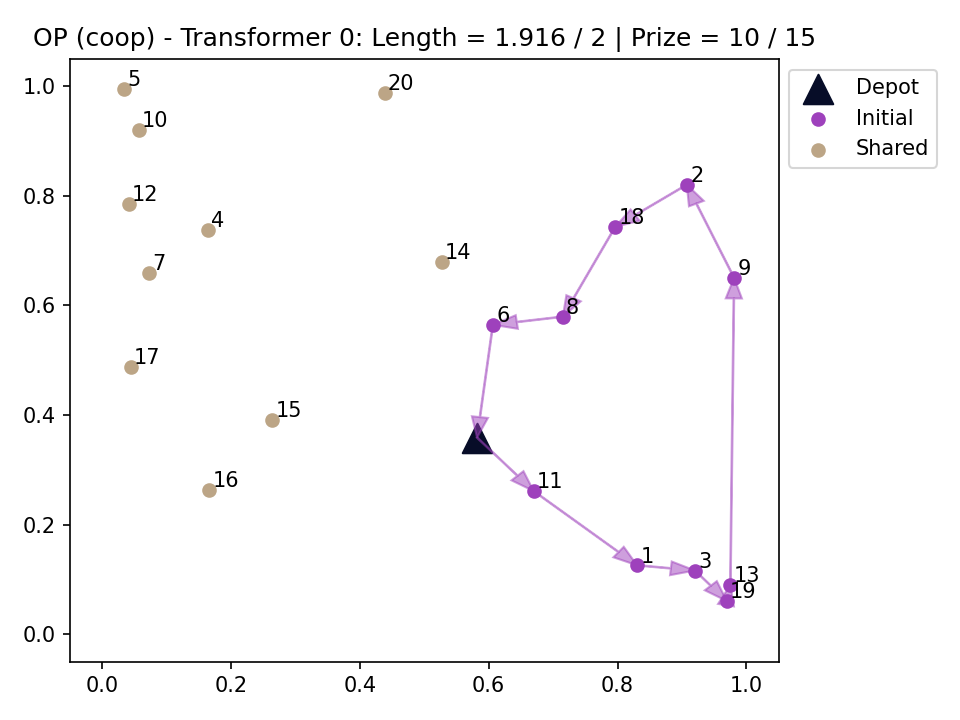
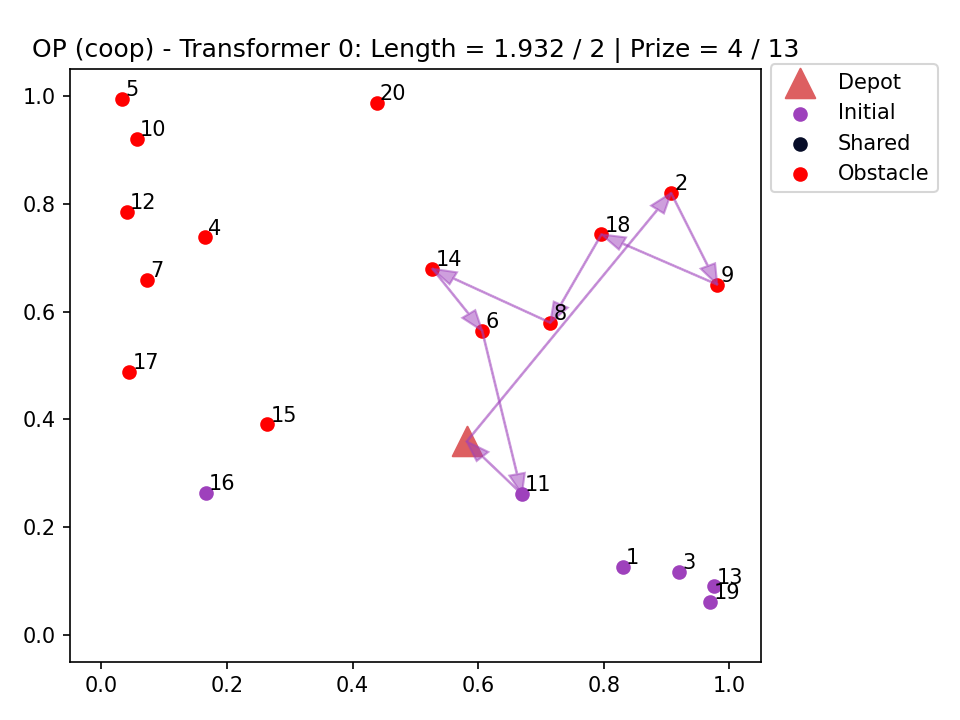
adding obstacles

diff --git a/test_plot.py b/test_plot.py
@@ -293,7 +293,6 @@ def plot_multitour(num_agents, tours, inputs, problem, model_name, data_dist='',
     colors = assign_colors(num_agents + 2)
     color_shared = np.array(colors[-2]).reshape(1, -1)
     color_depot = np.array(colors[-1]).reshape(1, -1)
-    # color_obstacles = rgb(255,0,0)
 
     length_sum, prize_sum, prize_max = 0, 0, 0
     for agent in range(num_agents):
@@ -334,6 +333,12 @@ def plot_multitour(num_agents, tours, inputs, problem, model_name, data_dist='',
         plt.scatter(depot[0], depot[1], s=200, c=color_depot, marker='^', label='Depot')
         if num_depots > 1:
             plt.scatter(depot2[0], depot2[1], s=200, c=color_depot, marker='v', label='Depot')
+        
+        print(prize)
+        # non_unit_prize_indices = (prize == 0.79)
+        # plt.scatter(loc[non_unit_prize_indices][:, 0], loc[non_unit_prize_indices][:, 1], c=color_shared, label='Shared')
+        # plt.scatter(loc[prize == 0.5][..., 0], loc[prize ==0.5][..., 1], c='red', label='Obstacle')
+        
         plt.scatter(loc[prize == 1][..., 0], loc[prize == 1][..., 1], c=color, label='Initial')
         plt.scatter(loc[prize != 1][..., 0], loc[prize != 1][..., 1], c=color_shared, label='Shared')
         plt.scatter(loc[prize == -100][..., 0], loc[prize == -100][..., 1], c='red', label='Obstacle')

diff --git a/create_dataset.py b/create_dataset.py
@@ -71,15 +71,10 @@ def generate_op_data(dataset_size, op_size, max_length, prize_type='const', num_
         prize_ = np.linalg.norm(depot[:, None, :] - loc, axis=-1)
         prize = (1 + (prize_ / prize_.max(axis=-1, keepdims=True) * 99).astype(int)) / 100.
 
-    # Calculate 20% of the length of the list
-    twenty_percent = int(len(prize) * 0.2)
-
-    # Randomly select 10% of the elements
-    indices_to_negate = random.sample(range(len(prize)), twenty_percent)
-
-    # Negate the selected elements
-    for index in indices_to_negate:
-        prize[index] = -100
+    # Introduce negative prize for 20% of nodes
+    num_neg_prize_nodes = int(0.2 * op_size)
+    indices = np.random.choice(op_size, num_neg_prize_nodes, replace=False)
+    prize[:, indices] = -100
 
     # End depot is different from start depot
     if num_depots == 2:

diff --git a/opendatafile.py b/opendatafile.py
@@ -1,0 +1,16 @@
+import pickle
+
+# Replace 'your_file.pkl' with the actual path to your .pkl file
+file_path = '/home/shruti/Documents/FYP/mc_uav/data/op/1depots/3agents/coop/km/20/train_seed1111_L2.pkl'
+
+try:
+    with open(file_path, 'rb') as file:
+        # Load the content of the pickle file
+        data = pickle.load(file)
+
+        # Print or process the loaded data
+        print(data)
+except FileNotFoundError:
+    print(f"The file {file_path} was not found.")
+except Exception as e:
+    print(f"An error occurred: {e}")
